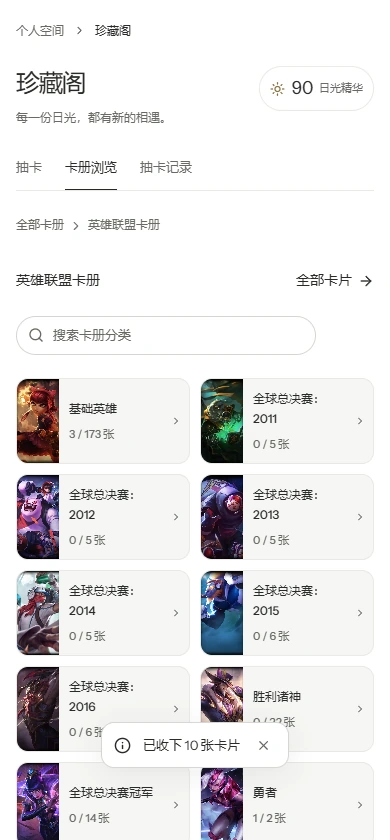
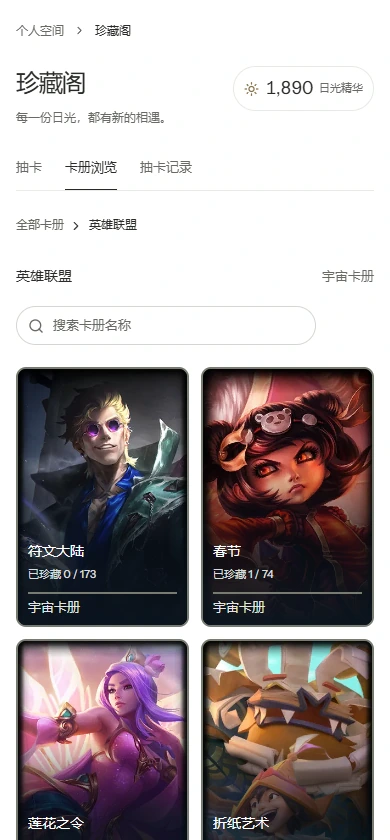
Publish DawnBreaker official website and client download links

diff --git a/index.html b/index.html
@@ -34,8 +34,8 @@
     </article>
     <article class="feature" data-preview="albums">
      <button class="feature-title reveal" data-show="albums" aria-controls="stage-image">让珍藏，慢慢成册 <span aria-hidden="true">↗</span></button>
-     <p class="reveal">用日光精华单抽或十连。在英雄联盟卡册里按系列浏览，看看已收下的卡片，也看看下一份期待。</p>
-     <img class="detail reveal" src="assets/albums.webp" width="1112" height="405" loading="lazy" alt="英雄联盟卡册，按基础英雄、全球总决赛等系列分类浏览">
+     <p class="reveal">用日光精华单抽或十连，揭晓每一次相遇。在卡册里按宇宙与系列浏览，慢慢留下自己的珍藏。</p>
+     <img class="detail reveal" src="assets/albums.webp" width="1112" height="450" loading="lazy" alt="英雄联盟宇宙卡册，按符文大陆、春节等宇宙继续浏览系列">
     </article>
     <article class="feature" data-preview="tools">
      <button class="feature-title reveal" data-show="tools" aria-controls="stage-image">工具，由你来挑 <span aria-hidden="true">↗</span></button>
@@ -45,7 +45,7 @@
    </section>
   </div>
   <aside class="stage" aria-label="破晓界面预览">
-   <div class="stage-top"><span>你的个人空间</span><span>v1.1.0</span></div>
+   <div class="stage-top"><span>你的个人空间</span><span>v1.1.1</span></div>
    <figure class="main-preview" data-ui>
     <img id="stage-image" src="assets/draw-mobile.webp" width="390" height="840" alt="珍藏阁抽卡界面：灵魂莲华阿狸海报，底部单抽与十连抽">
    </figure>
@@ -59,10 +59,10 @@
  <section class="downloads" id="downloads" aria-labelledby="download-title">
   <div class="download-copy"><h2 id="download-title" class="reveal">下次，从这里开始。</h2><p class="reveal">把破晓放在桌面或口袋里。<br>也可以直接打开网页版，随时回来。</p></div>
   <div class="download-list">
-   <a class="download-row reveal" href="https://github.com/liveldy/dawnbreaker-website/releases/download/v1.1.0/DawnBreaker-1.1.0-Windows.exe"><span><strong>Windows</strong><small>64 位 · 便携 EXE · v1.1.0</small></span><span aria-hidden="true">↓</span></a>
-   <a class="download-row reveal" href="https://github.com/liveldy/dawnbreaker-website/releases/download/v1.1.0/DawnBreaker-1.1.0-Android.apk"><span><strong>Android</strong><small>Android 6.0 及以上 · APK · v1.1.0</small></span><span aria-hidden="true">↓</span></a>
-   <p class="download-note reveal">安装 1.1.0 后，可在客户端内检查后续更新。<br>Android 首次安装需允许浏览器安装此应用。</p>
-   <a class="light-link reveal" href="https://github.com/liveldy/dawnbreaker-website/releases/tag/v1.1.0">版本说明与文件校验 ↗</a>
+   <a class="download-row reveal" href="https://github.com/liveldy/dawnbreaker-website/releases/download/v1.1.1/DawnBreaker-1.1.1-Windows.exe"><span><strong>Windows</strong><small>64 位 · 便携 EXE · v1.1.1</small></span><span aria-hidden="true">↓</span></a>
+   <a class="download-row reveal" href="https://github.com/liveldy/dawnbreaker-website/releases/download/v1.1.1/DawnBreaker-1.1.1-Android.apk"><span><strong>Android</strong><small>Android 6.0 及以上 · APK · v1.1.1</small></span><span aria-hidden="true">↓</span></a>
+   <p class="download-note reveal">旧版 Android 请手动覆盖安装 1.1.1，启用内置更新。<br>Android 首次安装需允许浏览器安装此应用。</p>
+   <a class="light-link reveal" href="https://github.com/liveldy/dawnbreaker-website/releases/tag/v1.1.1">版本说明与文件校验 ↗</a>
   </div>
  </section>
 </main>
